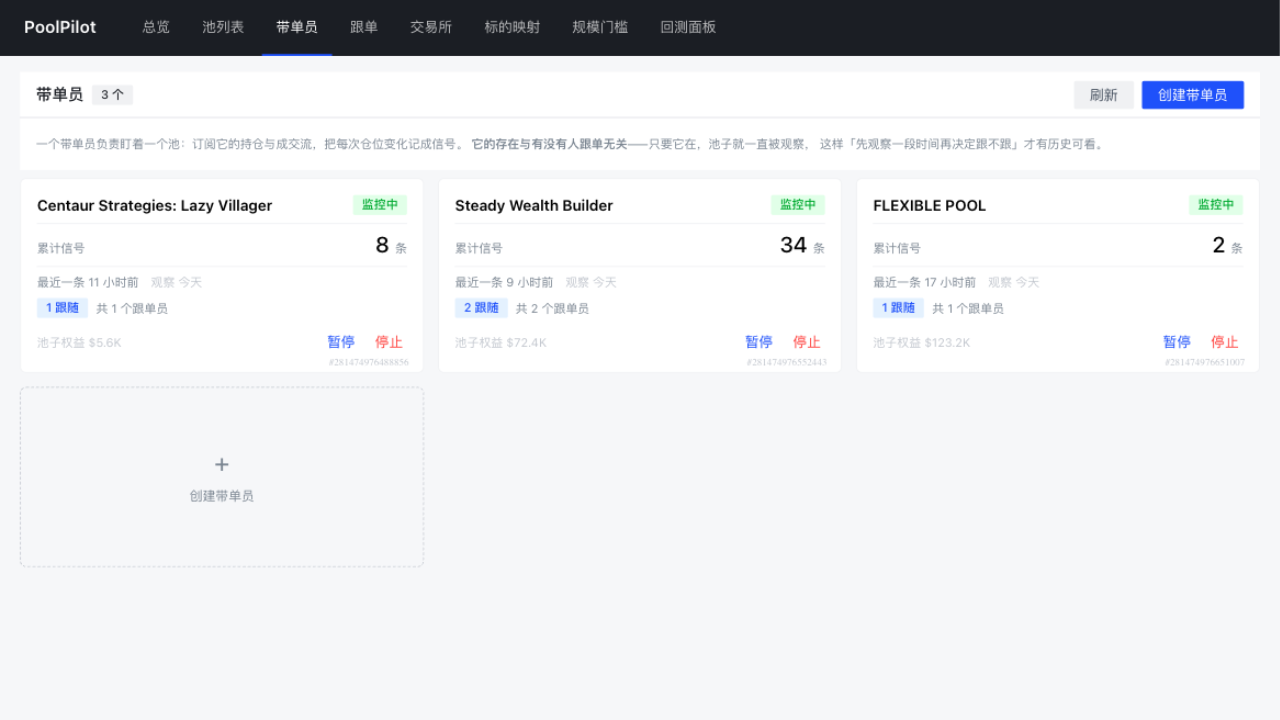
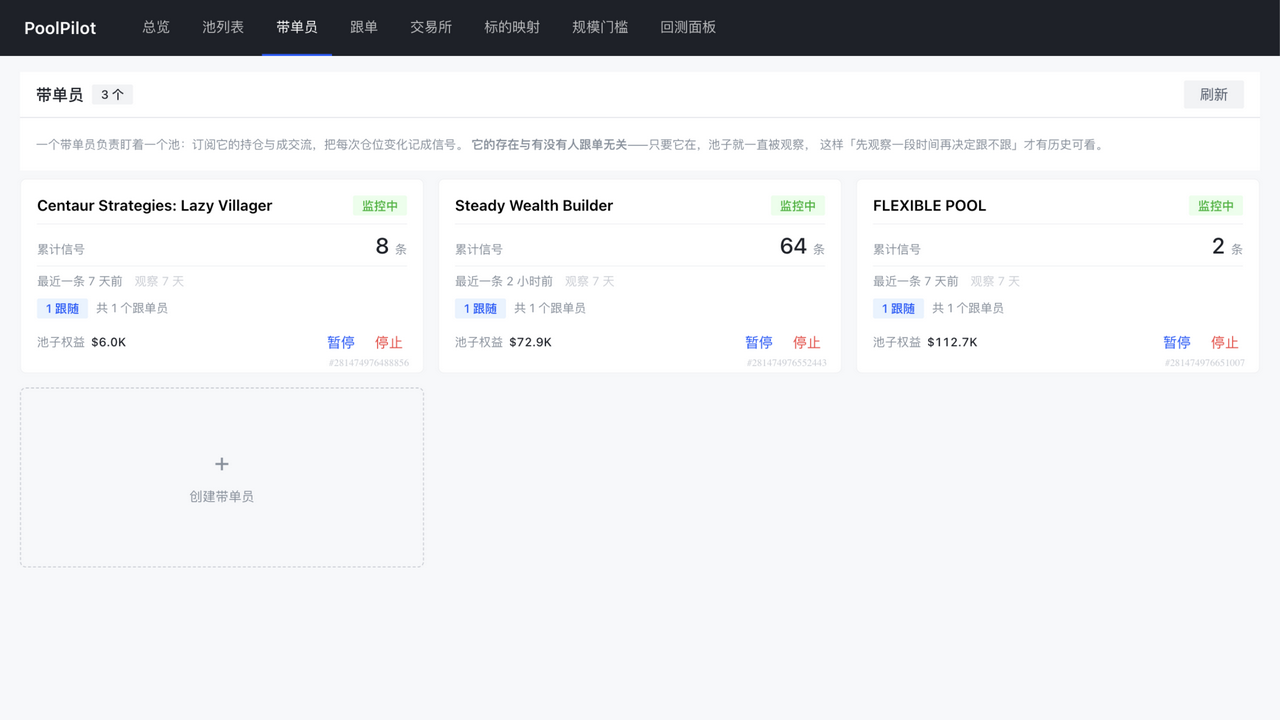
跟单与带单员卡片：配色层级、持仓区等高，去掉重复的新建入口
配色：卡上的金额类数值此前被压在灰字里，最浅的一档（池子权益、名义价值用 text-4）比它旁边的
"共 N 个跟单员"还浅——轻重倒置。统一成"标签浅、数值深"（标签 text-3、数值 text-1 加等宽数字），
方向性信息仍只用红绿（收益率、多空、跳过>0 变橙），与池列表"红绿只表达方向"的口径一致。

跟单卡片的持仓区改为**固定两行的高度**：高度随标的多少变的话，一排卡片会参差不齐、卡片脚对不齐
同一条线。超过两行由轨道自动上下滚动（来回走而不是单向循环——单向要复制内容才能无缝），
悬停暂停（数字在眼皮底下动没法读），prefers-reduced-motion 下退回可手动滚动。

两页头部重复的新建按钮同样删掉：入口只留正文那张虚线卡片（与交易所页同一口径）。
截图同步。

diff --git a/web/src/views/FollowListView.vue b/web/src/views/FollowListView.vue
@@ -15,6 +15,17 @@ import { formatPercent, formatNumber, formatUsd } from '@/utils/format'
 /// 与「带单员」页的分工：那边是**被观察的池**，这里是**下场的账户**。
 /// 一个池可以挂多个跟单员（各自一份本金、各记一套账），所以卡片的身份是跟单员编号，
 /// 池名只是它订阅的对象。
+/// 持仓区固定显示的行数。超过它就得滚动——高度随标的多少变，一排卡片就对不齐
+const POSITION_ROWS_VISIBLE = 2
+
+/// 这张卡此刻在显示几行持仓。
+///
+/// 实盘读**交易所的持仓**、纸面读**纸面账算出来的仓位**——两边口径不同（详情见下面模板里的说明），
+/// 行数也各算各的。抽成一处是为了让"要不要滚动"与"渲染了哪一份列表"永远是同一个判断。
+function positionRowCount(follower: FollowerSummary): number {
+  return follower.mode === 'live' ? follower.livePositions.length : follower.positions.length
+}
+
 const followers = ref<FollowerSummary[]>([])
 const leads = ref<LeadTrader[]>([])
 const loading = ref(false)
@@ -195,11 +206,10 @@ onMounted(() => {
           <a-tag v-if="!loading" size="small">{{ followers.length }} 个</a-tag>
         </a-space>
       </template>
+      <!-- 右上角只留「刷新」：开始跟单的入口**只有**列表里那张虚线卡片一处
+           （与「交易所」页同一口径）。两处入口含义完全一样，多一个只会让人犹豫"点哪个" -->
       <template #extra>
-        <a-space>
-          <a-button size="small" :loading="loading" @click="load">刷新</a-button>
-          <a-button type="primary" size="small" @click="openCreate()">开始跟单</a-button>
-        </a-space>
+        <a-button size="small" :loading="loading" @click="load">刷新</a-button>
       </template>
 
       <a-alert v-if="errorMessage" type="error" :title="errorMessage" />
@@ -257,18 +267,19 @@ onMounted(() => {
               >
                 {{ formatPercent(follower.returnPercent, 3) }}
               </span>
-              <span class="equity-abs">${{ formatNumber(follower.equity, 2) }}</span>
+              <!-- 净值是**金额**，不是说明文字：给它数值档（深一档），别与旁边的单位、标签同色 -->
+              <span class="equity-abs is-value">${{ formatNumber(follower.equity, 2) }}</span>
             </div>
 
             <div class="card-meta">
               跟单员 #{{ follower.id }} ·
               <!-- 实盘的本金是**规模基准**（跟多大仓），与账户里有多少钱是两回事 -->
               {{ follower.mode === 'live' ? '规模基准' : '本金' }}
-              {{ formatUsd(follower.initialCapital) }}
+              <span class="meta-value">{{ formatUsd(follower.initialCapital) }}</span>
               <!-- 实盘的比例要池子权益才算得出，列表不取池子快照，所以不在这里显示一个
                    分母不同的"比例"——详情页上那个是准的 -->
               <template v-if="follower.mode !== 'live'">
-                · 比例 {{ formatPercent(follower.scale * 100, 3) }}
+                · 比例 <span class="meta-value">{{ formatPercent(follower.scale * 100, 3) }}</span>
               </template>
               <!-- 实盘必须显示落在哪个账号上：同一个平台可以有两个账号，
                    不写出来的话两个实盘跟单员在界面上长得一模一样 -->
@@ -280,59 +291,66 @@ onMounted(() => {
             <!-- 持仓：纸面读纸面账算出来的仓位，实盘读**交易所的持仓**——
                  两边口径不同，不能共用一处渲染：曾经实盘这段是空的，卡片上就写着
                  「当前空仓」，而旁边正是「持仓名义价值 $17.75」，一句明显的假话 -->
-            <div class="card-positions">
-              <template v-if="follower.mode === 'live'">
-                <template v-if="follower.livePositions.length > 0">
-                  <div
-                    v-for="position in follower.livePositions"
-                    :key="position.venueSymbol"
-                    class="position-row"
-                  >
-                    <span>
-                      <a-tag size="small" :color="position.positionSide === 'SHORT' ? 'red' : 'green'">
-                        {{ position.positionSide === 'SHORT' ? '空' : '多' }}
-                      </a-tag>
-                      {{ position.pair ?? position.venueSymbol }}
-                      {{ formatNumber(position.size, 4) }}
-                    </span>
-                    <span
-                      :style="{
-                        color:
-                          position.unrealizedPnl >= 0
-                            ? 'rgb(var(--success-6))'
-                            : 'rgb(var(--danger-6))',
-                      }"
+            <!-- 持仓区**固定两行的高度**：高度随标的多少变的话，一排卡片会参差不齐，
+                 卡片脚（成交/跳过/名义价值）对不齐同一条水平线。超过两行由轨道自动上下滚动 -->
+            <div
+              class="card-positions"
+              :class="{ 'is-scrolling': positionRowCount(follower) > POSITION_ROWS_VISIBLE }"
+            >
+              <div class="positions-track">
+                <template v-if="follower.mode === 'live'">
+                  <template v-if="follower.livePositions.length > 0">
+                    <div
+                      v-for="position in follower.livePositions"
+                      :key="position.venueSymbol"
+                      class="position-row"
                     >
-                      ${{ formatNumber(position.unrealizedPnl, 2) }}
-                    </span>
-                  </div>
+                      <span>
+                        <a-tag size="small" :color="position.positionSide === 'SHORT' ? 'red' : 'green'">
+                          {{ position.positionSide === 'SHORT' ? '空' : '多' }}
+                        </a-tag>
+                        {{ position.pair ?? position.venueSymbol }}
+                        {{ formatNumber(position.size, 4) }}
+                      </span>
+                      <span
+                        :style="{
+                          color:
+                            position.unrealizedPnl >= 0
+                              ? 'rgb(var(--success-6))'
+                              : 'rgb(var(--danger-6))',
+                        }"
+                      >
+                        ${{ formatNumber(position.unrealizedPnl, 2) }}
+                      </span>
+                    </div>
+                  </template>
+                  <span v-else class="card-idle">交易所账号当前空仓</span>
                 </template>
-                <span v-else class="card-idle">交易所账号当前空仓</span>
-              </template>
 
-              <template v-else>
-                <template v-if="follower.positions.length > 0">
-                  <div v-for="position in follower.positions" :key="position.symbol" class="position-row">
-                    <span>
-                      <a-tag size="small" :color="position.side === 'long' ? 'green' : 'red'">
-                        {{ position.side === 'long' ? '多' : '空' }}
-                      </a-tag>
-                      {{ position.symbol }} {{ formatNumber(position.size, 1) }}
-                    </span>
-                    <span
-                      :style="{
-                        color:
-                          position.unrealizedPnl >= 0
-                            ? 'rgb(var(--success-6))'
-                            : 'rgb(var(--danger-6))',
-                      }"
-                    >
-                      ${{ formatNumber(position.unrealizedPnl, 2) }}
-                    </span>
-                  </div>
+                <template v-else>
+                  <template v-if="follower.positions.length > 0">
+                    <div v-for="position in follower.positions" :key="position.symbol" class="position-row">
+                      <span>
+                        <a-tag size="small" :color="position.side === 'long' ? 'green' : 'red'">
+                          {{ position.side === 'long' ? '多' : '空' }}
+                        </a-tag>
+                        {{ position.symbol }} {{ formatNumber(position.size, 1) }}
+                      </span>
+                      <span
+                        :style="{
+                          color:
+                            position.unrealizedPnl >= 0
+                              ? 'rgb(var(--success-6))'
+                              : 'rgb(var(--danger-6))',
+                        }"
+                      >
+                        ${{ formatNumber(position.unrealizedPnl, 2) }}
+                      </span>
+                    </div>
+                  </template>
+                  <span v-else class="card-idle">当前空仓</span>
                 </template>
-                <span v-else class="card-idle">当前空仓</span>
-              </template>
+              </div>
             </div>
 
             <!-- 最后一行两种模式共用一套骨架：
@@ -348,7 +366,11 @@ onMounted(() => {
               <span :style="{ color: follower.skipCount > 0 ? 'rgb(var(--warning-6))' : undefined }">
                 {{ follower.mode === 'live' ? '未跟上' : '跳过' }} {{ follower.skipCount }}
               </span>
-              <span style="color: var(--color-text-4)">名义价值 {{ formatUsd(follower.grossNotional) }}</span>
+
+              <!-- 名义价值是金额：与带单员卡片的「池子权益」同款处理——
+                   标签留灰、数值用最深一档。它原先写死在 text-4（全卡最浅），
+                   比左边两个计数还浅，读起来像附注而不是一个要看的数 -->
+              <span>名义价值 <span class="meta-value">{{ formatUsd(follower.grossNotional) }}</span></span>
             </div>
           </template>
 
@@ -559,14 +581,33 @@ onMounted(() => {
   gap: 10px;
 }
 
+/* 大字：纸面的收益率（内联覆盖成红绿）与实盘的账户余额共用它。
+   显式给最深一档而不是继承——它是卡片的视觉锚点，颜色不该跟着父级飘。
+   等宽数字：一排卡片横扫过去时，位数不同的金额也能对齐。 */
 .equity-value {
   font-size: 24px;
   font-weight: 500;
+  color: var(--color-text-1);
+  font-variant-numeric: tabular-nums;
 }
 
 .equity-abs {
   font-size: 13px;
   color: var(--color-text-3);
+}
+
+/* 纸面模式的这一格放的是**净值金额**（不是说明文字）：与上面的收益率同属"要看的数"，
+   给它数值档。实盘模式那格是"账户余额 · 可用 …"这类描述句，仍留在说明档 */
+.equity-abs.is-value {
+  color: var(--color-text-1);
+  font-variant-numeric: tabular-nums;
+}
+
+/* 行内的金额与比例。规则与带单员卡片一致：标签浅（text-3）、数值深（text-1）——
+   原先整行同一个灰，"本金 $500.00 · 比例 8.350%" 里的数要费劲才找到 */
+.meta-value {
+  color: var(--color-text-1);
+  font-variant-numeric: tabular-nums;
 }
 
 .card-meta,
@@ -575,20 +616,74 @@ onMounted(() => {
   color: var(--color-text-3);
 }
 
+/* 持仓区 = 固定高度的**视口**，高度按"两行"算出来而不是写死像素：
+   行高与行距是变量，改一处两边都跟着变（视口写死、行高改了就会出现半行）。 */
 .card-positions {
-  display: flex;
-  flex-direction: column;
-  gap: 4px;
+  --position-row-height: 24px;
+  --position-row-gap: 4px;
+  --position-viewport: calc(
+    (var(--position-row-height) * 2) + var(--position-row-gap)
+  );
+
+  height: var(--position-viewport);
+
+  /* 超出部分由轨道动画带出来，不给原生滚动条——列表里十几张卡片各挂一条滚动条太吵。
+     但 prefers-reduced-motion 下会退回可滚动（见文件末尾），保证第三行之后够得着 */
+  overflow: hidden;
   font-size: 13px;
   padding: 8px 0;
   border-top: 1px solid var(--color-border-1);
   border-bottom: 1px solid var(--color-border-1);
 }
 
+/* 会动的只有这一条轨道：视口（边框与内边距）不动，动的是里面的行 */
+.positions-track {
+  display: flex;
+  flex-direction: column;
+  gap: var(--position-row-gap);
+}
+
 .position-row {
   display: flex;
   align-items: center;
   justify-content: space-between;
+
+  /* 行高固定：否则"两行的高度"这种算法不成立，标签换行还会把视口撑破 */
+  height: var(--position-row-height);
+}
+
+/* 超过两行：自动上下滚动（跑马灯）。
+   用 alternate 来回走，而不是单向循环——单向循环要复制一份内容才能无缝，
+   而这里只有几行，"来回翻看"也更贴近它表达的东西。悬停暂停：鼠标压在上面时不该继续动 */
+.card-positions.is-scrolling .positions-track {
+  animation: positions-pingpong 4s ease-in-out infinite alternate;
+}
+
+.card-positions.is-scrolling:hover .positions-track {
+  animation-play-state: paused;
+}
+
+@keyframes positions-pingpong {
+  from {
+    transform: translateY(0);
+  }
+
+  /* 百分比相对**轨道自身**高度：-100% 是滚到底，再加回一个视口高度，
+     正好让最后一行停在视口底部（多滚一点就会露出空白） */
+  to {
+    transform: translateY(calc(-100% + var(--position-viewport)));
+  }
+}
+
+/* 声明"减少动效"的用户：不做动画，改成可手动滚动 */
+@media (prefers-reduced-motion: reduce) {
+  .card-positions.is-scrolling {
+    overflow-y: auto;
+  }
+
+  .card-positions.is-scrolling .positions-track {
+    animation: none;
+  }
 }
 
 .card-idle {

diff --git a/web/src/views/LeadListView.vue b/web/src/views/LeadListView.vue
@@ -138,11 +138,10 @@ onMounted(load)
           <a-tag v-if="!loading" size="small">{{ leads.length }} 个</a-tag>
         </a-space>
       </template>
+      <!-- 右上角只留「刷新」：创建带单员的入口**只有**列表里那张虚线卡片一处
+           （与「交易所」「跟单」两页同一口径）。两处入口含义完全一样，多一个只会让人犹豫"点哪个" -->
       <template #extra>
-        <a-space>
-          <a-button size="small" :loading="loading" @click="load">刷新</a-button>
-          <a-button type="primary" size="small" @click="openCreate">创建带单员</a-button>
-        </a-space>
+        <a-button size="small" :loading="loading" @click="load">刷新</a-button>
       </template>
 
       <a-alert v-if="errorMessage" type="error" :title="errorMessage" />
@@ -180,7 +179,9 @@ onMounted(load)
             <a-tooltip content="这个池被观察到并落库的仓位变化条数。与有没有人跟单无关——没人跟也会记。">
               <span class="signals-label">累计信号</span>
             </a-tooltip>
-            <span class="signals-value">{{ lead.signalCount }}</span>
+            <span class="signals-value" :class="{ 'signals-value-empty': lead.signalCount === 0 }">
+              {{ lead.signalCount }}
+            </span>
             <span class="signals-unit">条</span>
           </div>
 
@@ -201,7 +202,8 @@ onMounted(load)
           <div class="card-foot">
             <span class="foot-pool">
               <template v-if="poolEquityOf(lead.accountIndex) !== null">
-                池子权益 {{ formatUsd(poolEquityOf(lead.accountIndex) ?? 0) }}
+                <span class="foot-pool-label">池子权益</span>
+                <span class="foot-pool-value">{{ formatUsd(poolEquityOf(lead.accountIndex) ?? 0) }}</span>
               </template>
             </span>
             <a-space :size="12">
@@ -332,10 +334,22 @@ onMounted(load)
   cursor: help;
 }
 
+/* 卡上主指标。显式给 color 而不是继承：继承意味着"改父级颜色会顺手改掉它"，
+   而这个数是整张卡的视觉锚点，不该跟着别处飘。 */
 .signals-value {
   margin-left: auto;
   font-size: 22px;
   font-weight: 500;
+  color: var(--color-text-1);
+
+  /* 等宽数字：一排卡片横向扫过去时，位数不同的数字也能对齐（"8 条" 与 "64 条" 的 6 不该把 8 挤歪） */
+  font-variant-numeric: tabular-nums;
+}
+
+/* 信号数为 0 = "还没攒到"，与"攒了 64 条"不是一回事：
+   同一个字号下用最深一档会让空观察者看起来一样有分量。浅一档，与它旁边那句「还没有信号」一致 */
+.signals-value-empty {
+  color: var(--color-text-3);
 }
 
 .signals-unit {
@@ -374,8 +388,23 @@ onMounted(load)
   margin-top: 2px;
 }
 
+/* 池子权益是这张卡上最有决策分量的数字（"这个池值不值得跟"看的就是它），
+   原先整个用 --color-text-4（全卡最浅一档，比旁边"共 N 个跟单员"还浅）——轻重倒置。
+   现在按"标签浅、数值深"分开：标签 text-3，数值 text-1 并加粗一档。 */
 .foot-pool {
-  color: var(--color-text-4);
+  display: inline-flex;
+  align-items: baseline;
+  gap: 6px;
+}
+
+.foot-pool-label {
+  color: var(--color-text-3);
+}
+
+.foot-pool-value {
+  color: var(--color-text-1);
+  font-weight: 500;
+  font-variant-numeric: tabular-nums;
 }
 
 /* 账户索引是排查用的，不该参与日常阅读 */
